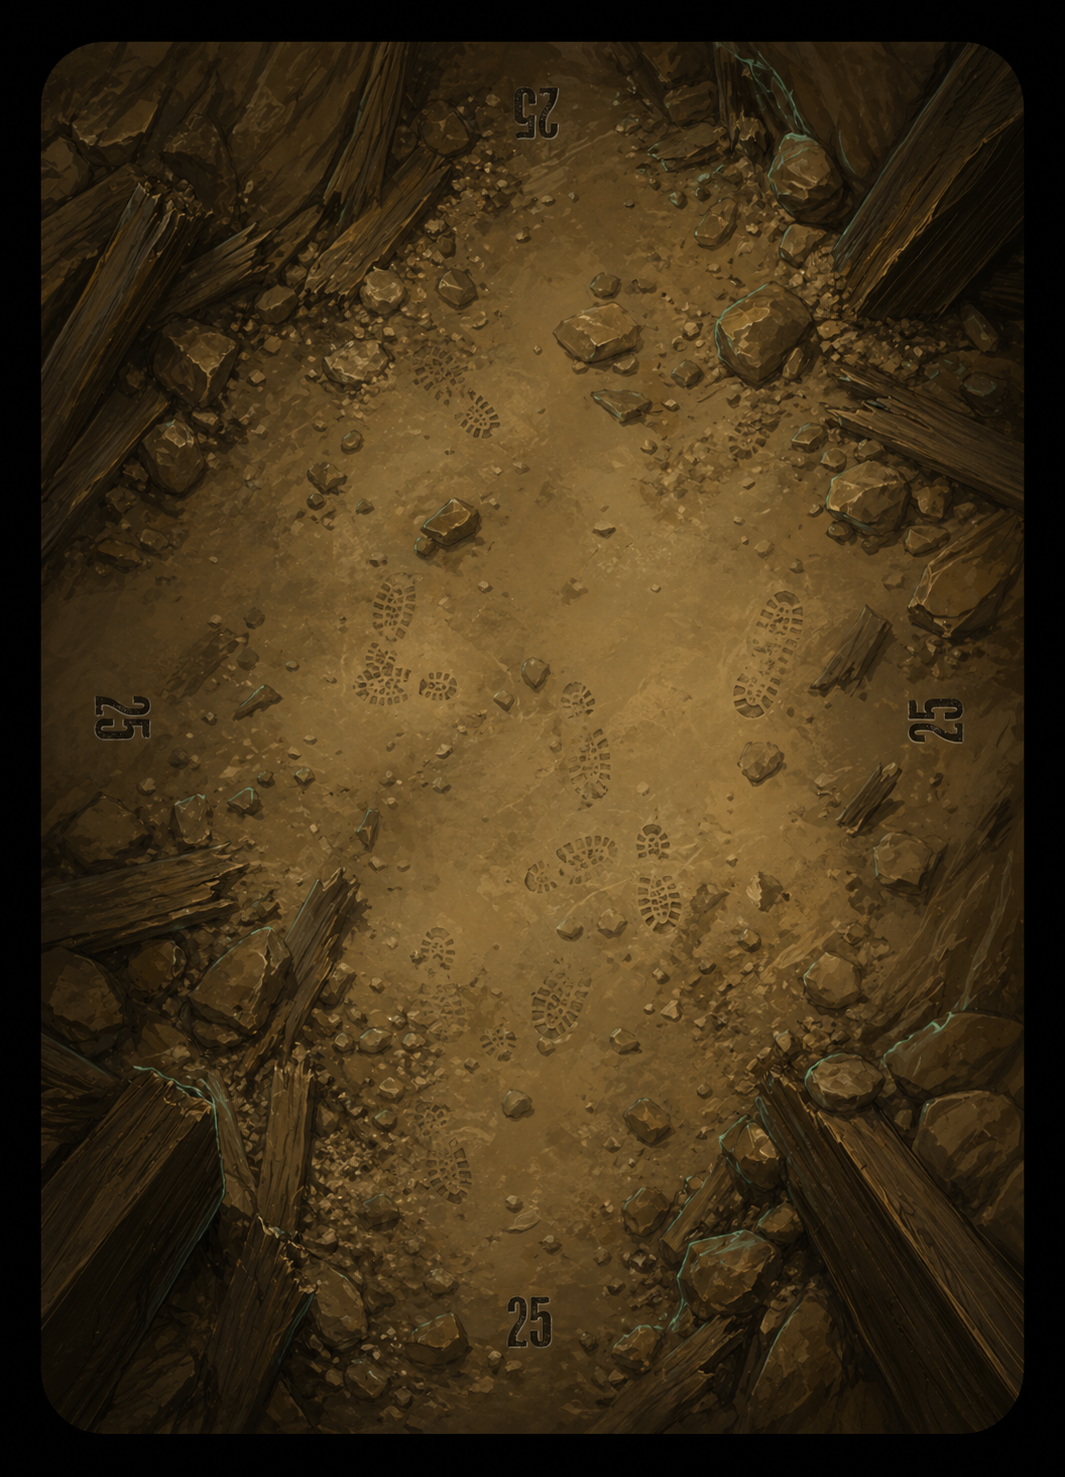
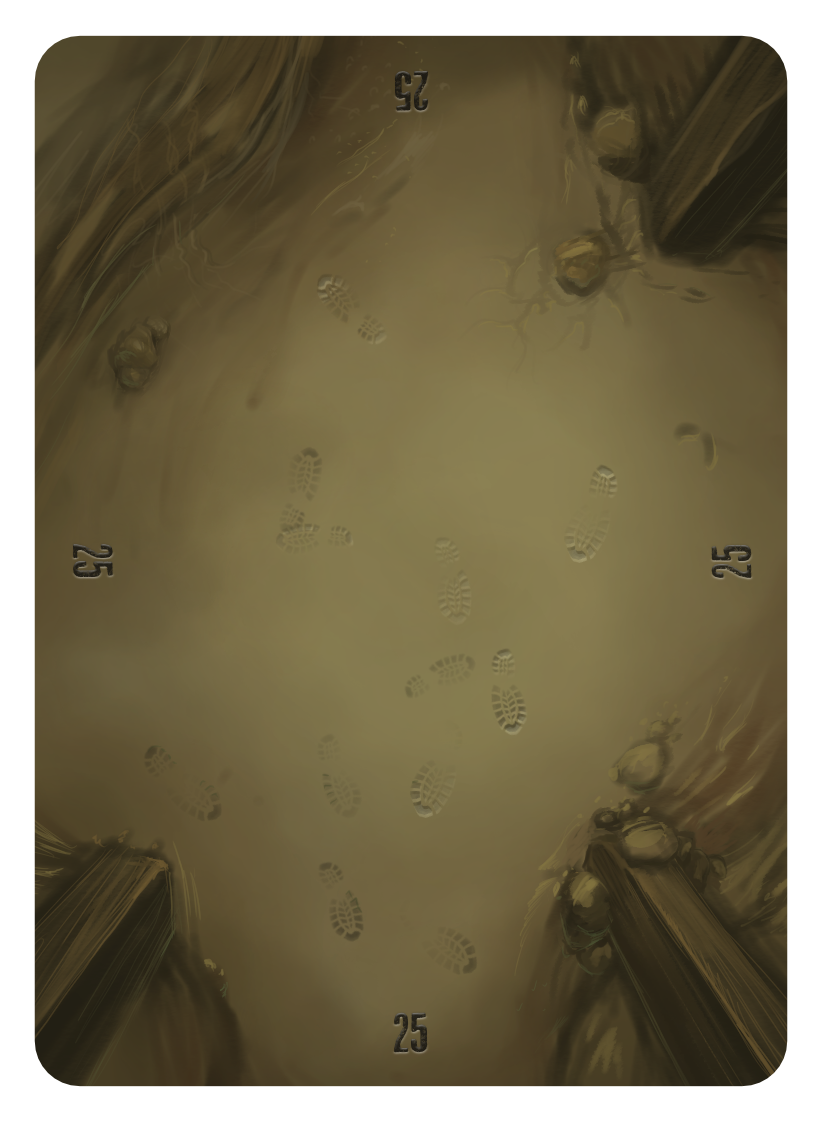
Update prototype rules with badged cards

diff --git a/rules.html b/rules.html
@@ -733,11 +733,11 @@
           </div>
         </div>
         <div class="art-strip" aria-label="Mine Trap card art references">
-          <img src="assets/cards/elevator.png" alt="Elevator card">
-          <img src="assets/cards/coal_01.png" alt="Coal card">
-          <img src="assets/cards/card_pickaxe_DigDeep.png" alt="Pickaxe card">
-          <img src="assets/cards/card_river.png" alt="River card">
-          <img src="assets/cards/card_spider_dunkin.png" alt="Spider card">
+          <img src="assets/cards/elevator_mine.png" alt="Elevator card with mine badge">
+          <img src="assets/cards/coal_01_mine.png" alt="Coal card with mine badge">
+          <img src="assets/cards/card_pickaxe_DigDeep_toolchest.png" alt="Pickaxe card with Tool Chest badge">
+          <img src="assets/cards/card_river_mine.png" alt="River card with mine badge">
+          <img src="assets/cards/card_spider_dunkin_mine.png" alt="Spider card with mine badge">
         </div>
       </div>
     </section>
@@ -757,7 +757,7 @@
               <ul>
                 <li>Base cards with River backs and edge numbers.</li>
                 <li>Mine cards used to build the hidden mine.</li>
-                <li>Item cards for player inventories and the Tool Chest pile.</li>
+                <li>Item cards for player inventories and the Tool Chest pile, using the collapsed mine card back.</li>
                 <li>Rule/reference cards for turn order and progress circles.</li>
               </ul>
             </div>
@@ -765,7 +765,7 @@
               <h4>Markers</h4>
               <ul>
                 <li>One wooden player pawn per player: blue, yellow, green, and red.</li>
-                <li>Air Counter card and marker pawn.</li>
+                <li>Air Counter card and one white wooden marker pawn.</li>
                 <li>Tool Chest Pile locator.</li>
                 <li>Furnace pile area for deposited Coal.</li>
                 <li>Removed from Game pile locator.</li>
@@ -782,7 +782,7 @@
             <div class="rule-card">
               <h4>Mine Cards</h4>
               <ul>
-                <li>4 Pit cards; optionally replace 1 Pit with Cavern.</li>
+                <li>4 Pit cards; optionally use the 2-circle Pit variant for an easier escape.</li>
                 <li>4 River cards.</li>
                 <li>4 Tool Chest cards.</li>
                 <li>2 2-Coal cards and 2 3-Coal cards.</li>
@@ -791,14 +791,15 @@
                 <li>6 High Rubble and 6 Coal cards, reduced to 8 randomly mixed cards during setup.</li>
                 <li>1 Elevator card.</li>
               </ul>
+              <p>Mine-deck cards use the lantern badge.</p>
             </div>
             <div class="rule-card">
               <h4>Starting Item Cards</h4>
               <ul>
-                <li>4 Coal cards.</li>
-                <li>8 Pickaxe cards.</li>
+                <li>4 Coal cards: 1 player-colored Coal per player.</li>
+                <li>8 Pickaxe cards: print 2 Pickaxes per player color.</li>
               </ul>
-              <p>These may be color coded later to distinguish them from mine-deck cards.</p>
+              <p>Starter cards use the matching player pawn badge.</p>
             </div>
             <div class="rule-card">
               <h4>Tool Chest And Rules</h4>
@@ -809,6 +810,7 @@
                 <li>4 Rule cards.</li>
                 <li>Start air at 11 rounds.</li>
               </ul>
+              <p>Tool Chest cards use the Tool Chest badge.</p>
             </div>
             <div class="rule-card">
               <h4>Player Pawns</h4>
@@ -816,13 +818,15 @@
                 <li>Type: wooden pawn, small head.</li>
                 <li>Dimensions: 29mm x 13mm.</li>
                 <li>Material: wood.</li>
-                <li>Colors: blue, yellow, green, red.</li>
+                <li>Player colors: blue, yellow, green, red.</li>
+                <li>Air Counter marker: white.</li>
               </ul>
               <div class="component-image-row" aria-label="Player pawn colors">
                 <img src="assets/components/bluePawn.jpg" alt="Blue wooden pawn">
                 <img src="assets/components/yellowPawn.jpg" alt="Yellow wooden pawn">
                 <img src="assets/components/greenPawn.jpg" alt="Green wooden pawn">
                 <img src="assets/components/redPawn.jpg" alt="Red wooden pawn">
+                <img src="assets/components/whitePawn.jpg" alt="White wooden pawn for the Air Counter marker">
               </div>
             </div>
           </div>
@@ -830,28 +834,46 @@
           <h3 style="margin-top: 22px;">Key Card Families</h3>
           <div class="inventory-list">
             <div class="inventory-item">
-              <img src="assets/cards/card_pickaxe_DigDeep.png" alt="Pickaxe card">
+              <img src="assets/cards/card_pickaxe_DigDeep_toolchest.png" alt="Tool Chest Pickaxe card">
               <div>
                 <h4>Pickaxe</h4>
                 <p>Used to gain buried items and Dig Deep into the current space or an adjacent two-card stack.</p>
+                <div class="mini-card-row" aria-label="Starter and Tool Chest Pickaxe cards">
+                  <img src="assets/cards/card_pickaxe_DigDeep_blue_starter.png" alt="Blue starter Pickaxe">
+                  <img src="assets/cards/card_pickaxe_DigDeep_yellow_starter.png" alt="Yellow starter Pickaxe">
+                  <img src="assets/cards/card_pickaxe_DigDeep_green_starter.png" alt="Green starter Pickaxe">
+                  <img src="assets/cards/card_pickaxe_DigDeep_red_starter.png" alt="Red starter Pickaxe">
+                  <img src="assets/cards/card_pickaxe_DigDeep_toolchest.png" alt="Tool Chest Pickaxe">
+                </div>
               </div>
             </div>
             <div class="inventory-item">
-              <img src="assets/cards/card_map.png" alt="Map card">
+              <img src="assets/cards/card_map_mine.png" alt="Map card with mine badge">
               <div>
                 <h4>Map</h4>
                 <p>Item card. Use Find Fast Path to gain one additional move on your turn.</p>
               </div>
             </div>
             <div class="inventory-item">
-              <img src="assets/cards/coal_01.png" alt="Coal card">
+              <img src="assets/cards/card_item_back.png" alt="Collapsed mine item card back">
+              <div>
+                <h4>Item Card Back</h4>
+                <p>The shared back for inventory and Tool Chest cards. It shows the collapsed mine and sets the opening mood without adding gameplay information.</p>
+              </div>
+            </div>
+            <div class="inventory-item">
+              <img src="assets/cards/coal_01_mine.png" alt="Coal card with mine badge">
               <div>
                 <h4>Coal</h4>
                 <p>Coal powers the Elevator furnace. Standard Coal counts as 1 Coal, and the official mine deck also includes 2-Coal and 3-Coal cards.</p>
                 <div class="mini-card-row" aria-label="Coal art variants">
-                  <img src="assets/cards/coal_01.png" alt="Coal variant 1">
-                  <img src="assets/cards/coal_02.png" alt="Coal variant 2">
-                  <img src="assets/cards/coal_03.png" alt="Coal variant 3">
+                  <img src="assets/cards/coal_01_mine.png" alt="Mine-deck Coal variant 1">
+                  <img src="assets/cards/coal_02_mine.png" alt="Mine-deck 2-Coal variant">
+                  <img src="assets/cards/coal_03_mine.png" alt="Mine-deck 3-Coal variant">
+                  <img src="assets/cards/coal_01_blue_starter.png" alt="Blue starter Coal">
+                  <img src="assets/cards/coal_01_yellow_starter.png" alt="Yellow starter Coal">
+                  <img src="assets/cards/coal_01_green_starter.png" alt="Green starter Coal">
+                  <img src="assets/cards/coal_01_red_starter.png" alt="Red starter Coal">
                 </div>
               </div>
             </div>
@@ -866,7 +888,7 @@
               <img src="assets/cards/AirCounter_11.png" alt="Air Counter card">
               <div>
                 <h4>Air Counter</h4>
-                <p>Choose the Air Counter card that matches player count, then place a marker pawn on the starting air value.</p>
+                <p>Choose the Air Counter card that matches player count, then place the white marker pawn on the starting air value.</p>
                 <div class="mini-card-row" aria-label="Air Counter card variants">
                   <img src="assets/cards/AirCounter_18.png" alt="18 Air Counter for 1 player">
                   <img src="assets/cards/AirCounter_15.png" alt="15 Air Counter for 2 players">
@@ -883,14 +905,14 @@
               </div>
             </div>
             <div class="inventory-item">
-              <img src="assets/cards/card_rope.png" alt="Rope card">
+              <img src="assets/cards/card_rope_toolchest.png" alt="Rope card with Tool Chest badge">
               <div>
                 <h4>Rope</h4>
                 <p>Placed as rotated board infrastructure. It can help with pits and rivers, and is not washed away by water.</p>
               </div>
             </div>
             <div class="inventory-item">
-              <img src="assets/cards/card_tool_chest_new.png" alt="Tool Chest card">
+              <img src="assets/cards/card_tool_chest_new_mine.png" alt="Tool Chest card with mine badge">
               <div>
                 <h4>Tool Chest</h4>
                 <p>When gained, remove it from play and draw from the Tool Chest pile.</p>
@@ -904,50 +926,75 @@
               </div>
             </div>
             <div class="inventory-item">
-              <img src="assets/cards/card_air_masks.png" alt="Air Masks card">
+              <img src="assets/cards/card_air_masks_mine.png" alt="Air Masks card with mine badge">
               <div>
                 <h4>Air Masks</h4>
                 <p>Optional Tool Chest item. It may be held and discarded at any time to move the air counter back 1 space.</p>
               </div>
             </div>
             <div class="inventory-item">
-              <img src="assets/cards/spider_repellent_1.png" alt="Spider Repellent card">
+              <img src="assets/cards/spider_repellent_1_toolchest.png" alt="Spider Repellent card with Tool Chest badge">
               <div>
                 <h4>Spider Repellent</h4>
                 <p>Repellent variants add visual interest but play the same. Repellent can be washed away by River flooding.</p>
                 <div class="mini-card-row" aria-label="Spider Repellent art variants">
-                  <img src="assets/cards/spider_repellent_1.png" alt="Spider Repellent variant 1">
-                  <img src="assets/cards/spider_repellent_2.png" alt="Spider Repellent variant 2">
-                  <img src="assets/cards/spider_repellent_3.png" alt="Spider Repellent variant 3">
+                  <img src="assets/cards/spider_repellent_1_toolchest.png" alt="Tool Chest Spider Repellent variant 1">
+                  <img src="assets/cards/spider_repellent_2_toolchest.png" alt="Tool Chest Spider Repellent variant 2">
+                  <img src="assets/cards/spider_repellent_3_toolchest.png" alt="Tool Chest Spider Repellent variant 3">
                 </div>
               </div>
             </div>
             <div class="inventory-item">
-              <img src="assets/cards/Cavern.png" alt="Cavern card">
+              <img src="assets/cards/Cavern_mine.png" alt="Cavern card with mine badge">
               <div>
                 <h4>Cavern</h4>
                 <p>A pit-like setback with a new route out of the mine; when escaped, it can reposition a pawn across the board.</p>
               </div>
             </div>
             <div class="inventory-item">
-              <img src="assets/cards/elevator.png" alt="Elevator card">
+              <img src="assets/cards/elevator_mine.png" alt="Elevator card with mine badge">
               <div>
                 <h4>Elevator</h4>
                 <p>The goal location. Gather all pawns here and stoke the furnace with enough Coal to escape.</p>
               </div>
             </div>
             <div class="inventory-item">
-              <img src="assets/cards/card_spider_dunkin.png" alt="Spider card">
+              <img src="assets/cards/card_spider_dunkin_mine.png" alt="Spider card with mine badge">
               <div>
                 <h4>Giant Spider</h4>
                 <p>A moving setback unless it is trapping a pawn on its space. Multiple spider versions are available so the prototype can support an easier spider mix.</p>
                 <div class="mini-card-row" aria-label="Spider art variants">
-                  <img src="assets/cards/card_spider_addi.png" alt="Addi the Giant Spider">
-                  <img src="assets/cards/card_spider_buddy.png" alt="Buddy the Giant Spider">
-                  <img src="assets/cards/card_spider_cuddles.png" alt="Cuddles the Giant Spider">
-                  <img src="assets/cards/card_spider_dunkin.png" alt="Dunkin the Giant Spider">
-                  <img src="assets/cards/card_spider_ed.png" alt="Ed the Giant Spider">
+                  <img src="assets/cards/card_spider_addi_mine.png" alt="Addi the Giant Spider with mine badge">
+                  <img src="assets/cards/card_spider_buddy_mine.png" alt="Buddy the Giant Spider with mine badge">
+                  <img src="assets/cards/card_spider_cuddles_mine.png" alt="Cuddles the Giant Spider with mine badge">
+                  <img src="assets/cards/card_spider_dunkin_mine.png" alt="Dunkin the Giant Spider with mine badge">
+                  <img src="assets/cards/card_spider_ed_mine.png" alt="Ed the Giant Spider with mine badge">
                 </div>
+              </div>
+            </div>
+            <div class="inventory-item">
+              <img src="assets/cards/card_river_mine.png" alt="River card with mine badge">
+              <div>
+                <h4>River</h4>
+                <p>Setback card that forces pawns along connected River spaces. Rope allows movement across a River, but does not stop the forced River movement.</p>
+              </div>
+            </div>
+            <div class="inventory-item">
+              <img src="assets/cards/card_pit_trap_2_mine.png" alt="Pit card with mine badge">
+              <div>
+                <h4>Pit</h4>
+                <p>Setback card that places the pawn on progress circles. A 2-circle Pit variant is available for faster escape tuning.</p>
+                <div class="mini-card-row" aria-label="Pit card variants">
+                  <img src="assets/cards/card_pit_trap_2_mine.png" alt="3-circle Pit card">
+                  <img src="assets/cards/card_pit_trap_2circle_mine.png" alt="2-circle Pit card">
+                </div>
+              </div>
+            </div>
+            <div class="inventory-item">
+              <img src="assets/cards/card_high_rubble_mine.png" alt="High Rubble card with mine badge">
+              <div>
+                <h4>High Rubble</h4>
+                <p>Obstacle card cleared with a Pickaxe. Setup starts with 6 High Rubble and 6 Coal, then randomly reduces that mix to 8 cards.</p>
               </div>
             </div>
           </div>
@@ -1196,28 +1243,28 @@
           <h3 style="margin-top: 22px;">Current Coal Variants</h3>
           <p>Standard Coal cards use three artwork variants to make coal discoveries feel less repetitive. These standard Coal variants each count as 1 Coal; 2-Coal and 3-Coal cards count as their printed value.</p>
           <div class="variant-grid" aria-label="Current Coal card variants">
-            <img src="assets/cards/coal_01.png" alt="Coal card variant 1">
-            <img src="assets/cards/coal_02.png" alt="Coal card variant 2">
-            <img src="assets/cards/coal_03.png" alt="Coal card variant 3">
+            <img src="assets/cards/coal_01_mine.png" alt="Coal card variant 1 with mine badge">
+            <img src="assets/cards/coal_02_mine.png" alt="2-Coal card with mine badge">
+            <img src="assets/cards/coal_03_mine.png" alt="3-Coal card with mine badge">
           </div>
           <h3 style="margin-top: 22px;">Current Spider Variants</h3>
           <p>These cards share the Giant Spider system, but the prototype now includes multiple named versions so the final game can tune difficulty and variety.</p>
           <div class="variant-grid" aria-label="Current Giant Spider card variants">
-            <img src="assets/cards/card_spider_addi.png" alt="Addi the Giant Spider">
-            <img src="assets/cards/card_spider_buddy.png" alt="Buddy the Giant Spider">
-            <img src="assets/cards/card_spider_cuddles.png" alt="Cuddles the Giant Spider">
-            <img src="assets/cards/card_spider_cuddles_2.png" alt="Cuddles the Giant Spider alternate">
-            <img src="assets/cards/card_spider_dunkin.png" alt="Dunkin the Giant Spider">
-            <img src="assets/cards/card_spider_dunkin_2.png" alt="Dunkin the Giant Spider alternate">
-            <img src="assets/cards/card_spider_ed.png" alt="Ed the Giant Spider">
-            <img src="assets/cards/card_spider_ed_2.png" alt="Ed the Giant Spider alternate">
+            <img src="assets/cards/card_spider_addi_mine.png" alt="Addi the Giant Spider with mine badge">
+            <img src="assets/cards/card_spider_buddy_mine.png" alt="Buddy the Giant Spider with mine badge">
+            <img src="assets/cards/card_spider_cuddles_mine.png" alt="Cuddles the Giant Spider with mine badge">
+            <img src="assets/cards/card_spider_cuddles_2_mine.png" alt="Cuddles the Giant Spider alternate with mine badge">
+            <img src="assets/cards/card_spider_dunkin_mine.png" alt="Dunkin the Giant Spider with mine badge">
+            <img src="assets/cards/card_spider_dunkin_2_mine.png" alt="Dunkin the Giant Spider alternate with mine badge">
+            <img src="assets/cards/card_spider_ed_mine.png" alt="Ed the Giant Spider with mine badge">
+            <img src="assets/cards/card_spider_ed_2_mine.png" alt="Ed the Giant Spider alternate with mine badge">
           </div>
           <h3 style="margin-top: 22px;">Spider Repellent Variants</h3>
           <p>The Spider Repellent cards use different artwork for interest, but they play the same unless a later rules pass says otherwise.</p>
           <div class="variant-grid" aria-label="Current Spider Repellent card variants">
-            <img src="assets/cards/spider_repellent_1.png" alt="Spider Repellent variant 1">
-            <img src="assets/cards/spider_repellent_2.png" alt="Spider Repellent variant 2">
-            <img src="assets/cards/spider_repellent_3.png" alt="Spider Repellent variant 3">
+            <img src="assets/cards/spider_repellent_1_toolchest.png" alt="Spider Repellent variant 1 with Tool Chest badge">
+            <img src="assets/cards/spider_repellent_2_toolchest.png" alt="Spider Repellent variant 2 with Tool Chest badge">
+            <img src="assets/cards/spider_repellent_3_toolchest.png" alt="Spider Repellent variant 3 with Tool Chest badge">
           </div>
         </div>
       </div>
@@ -1294,14 +1341,14 @@
               <p>By default, air does not recover during the main game. Air-restoring cards should be added only as optional variants.</p>
             </div>
             <div class="rule-card">
-              <img src="assets/cards/card_air_pocket.png" alt="Air Pocket card" style="width: 100%; max-width: 180px; display: block; margin: 0 0 12px; border-radius: 6px;">
+              <img src="assets/cards/card_air_pocket_mine.png" alt="Air Pocket card with mine badge" style="width: 100%; max-width: 180px; display: block; margin: 0 0 12px; border-radius: 6px;">
               <h4>Optional Air Pocket</h4>
               <p>Add 1 Air Pocket card to the center group with the Elevator if you want one extra surprise benefit in the mine.</p>
               <p>When Air Pocket is first revealed, restore one air on the counter, up to the starting air value. Then leave the card revealed in its space.</p>
               <p>This can make a Dig Deep reveal feel exciting even when the team was hoping to find the Elevator.</p>
             </div>
             <div class="rule-card">
-              <img src="assets/cards/card_air_masks.png" alt="Air Masks card" style="width: 100%; max-width: 180px; display: block; margin: 0 0 12px; border-radius: 6px;">
+              <img src="assets/cards/card_air_masks_mine.png" alt="Air Masks card with mine badge" style="width: 100%; max-width: 180px; display: block; margin: 0 0 12px; border-radius: 6px;">
               <h4>Optional Air Masks</h4>
               <p>Shuffle 1 Air Masks card into the Tool Chest pile if you want the team to have one holdable emergency air option.</p>
               <p>As an item, Air Masks may be kept in a player's inventory and used at any time. When used, discard it and move the air counter back 1 space, up to the starting air value.</p>